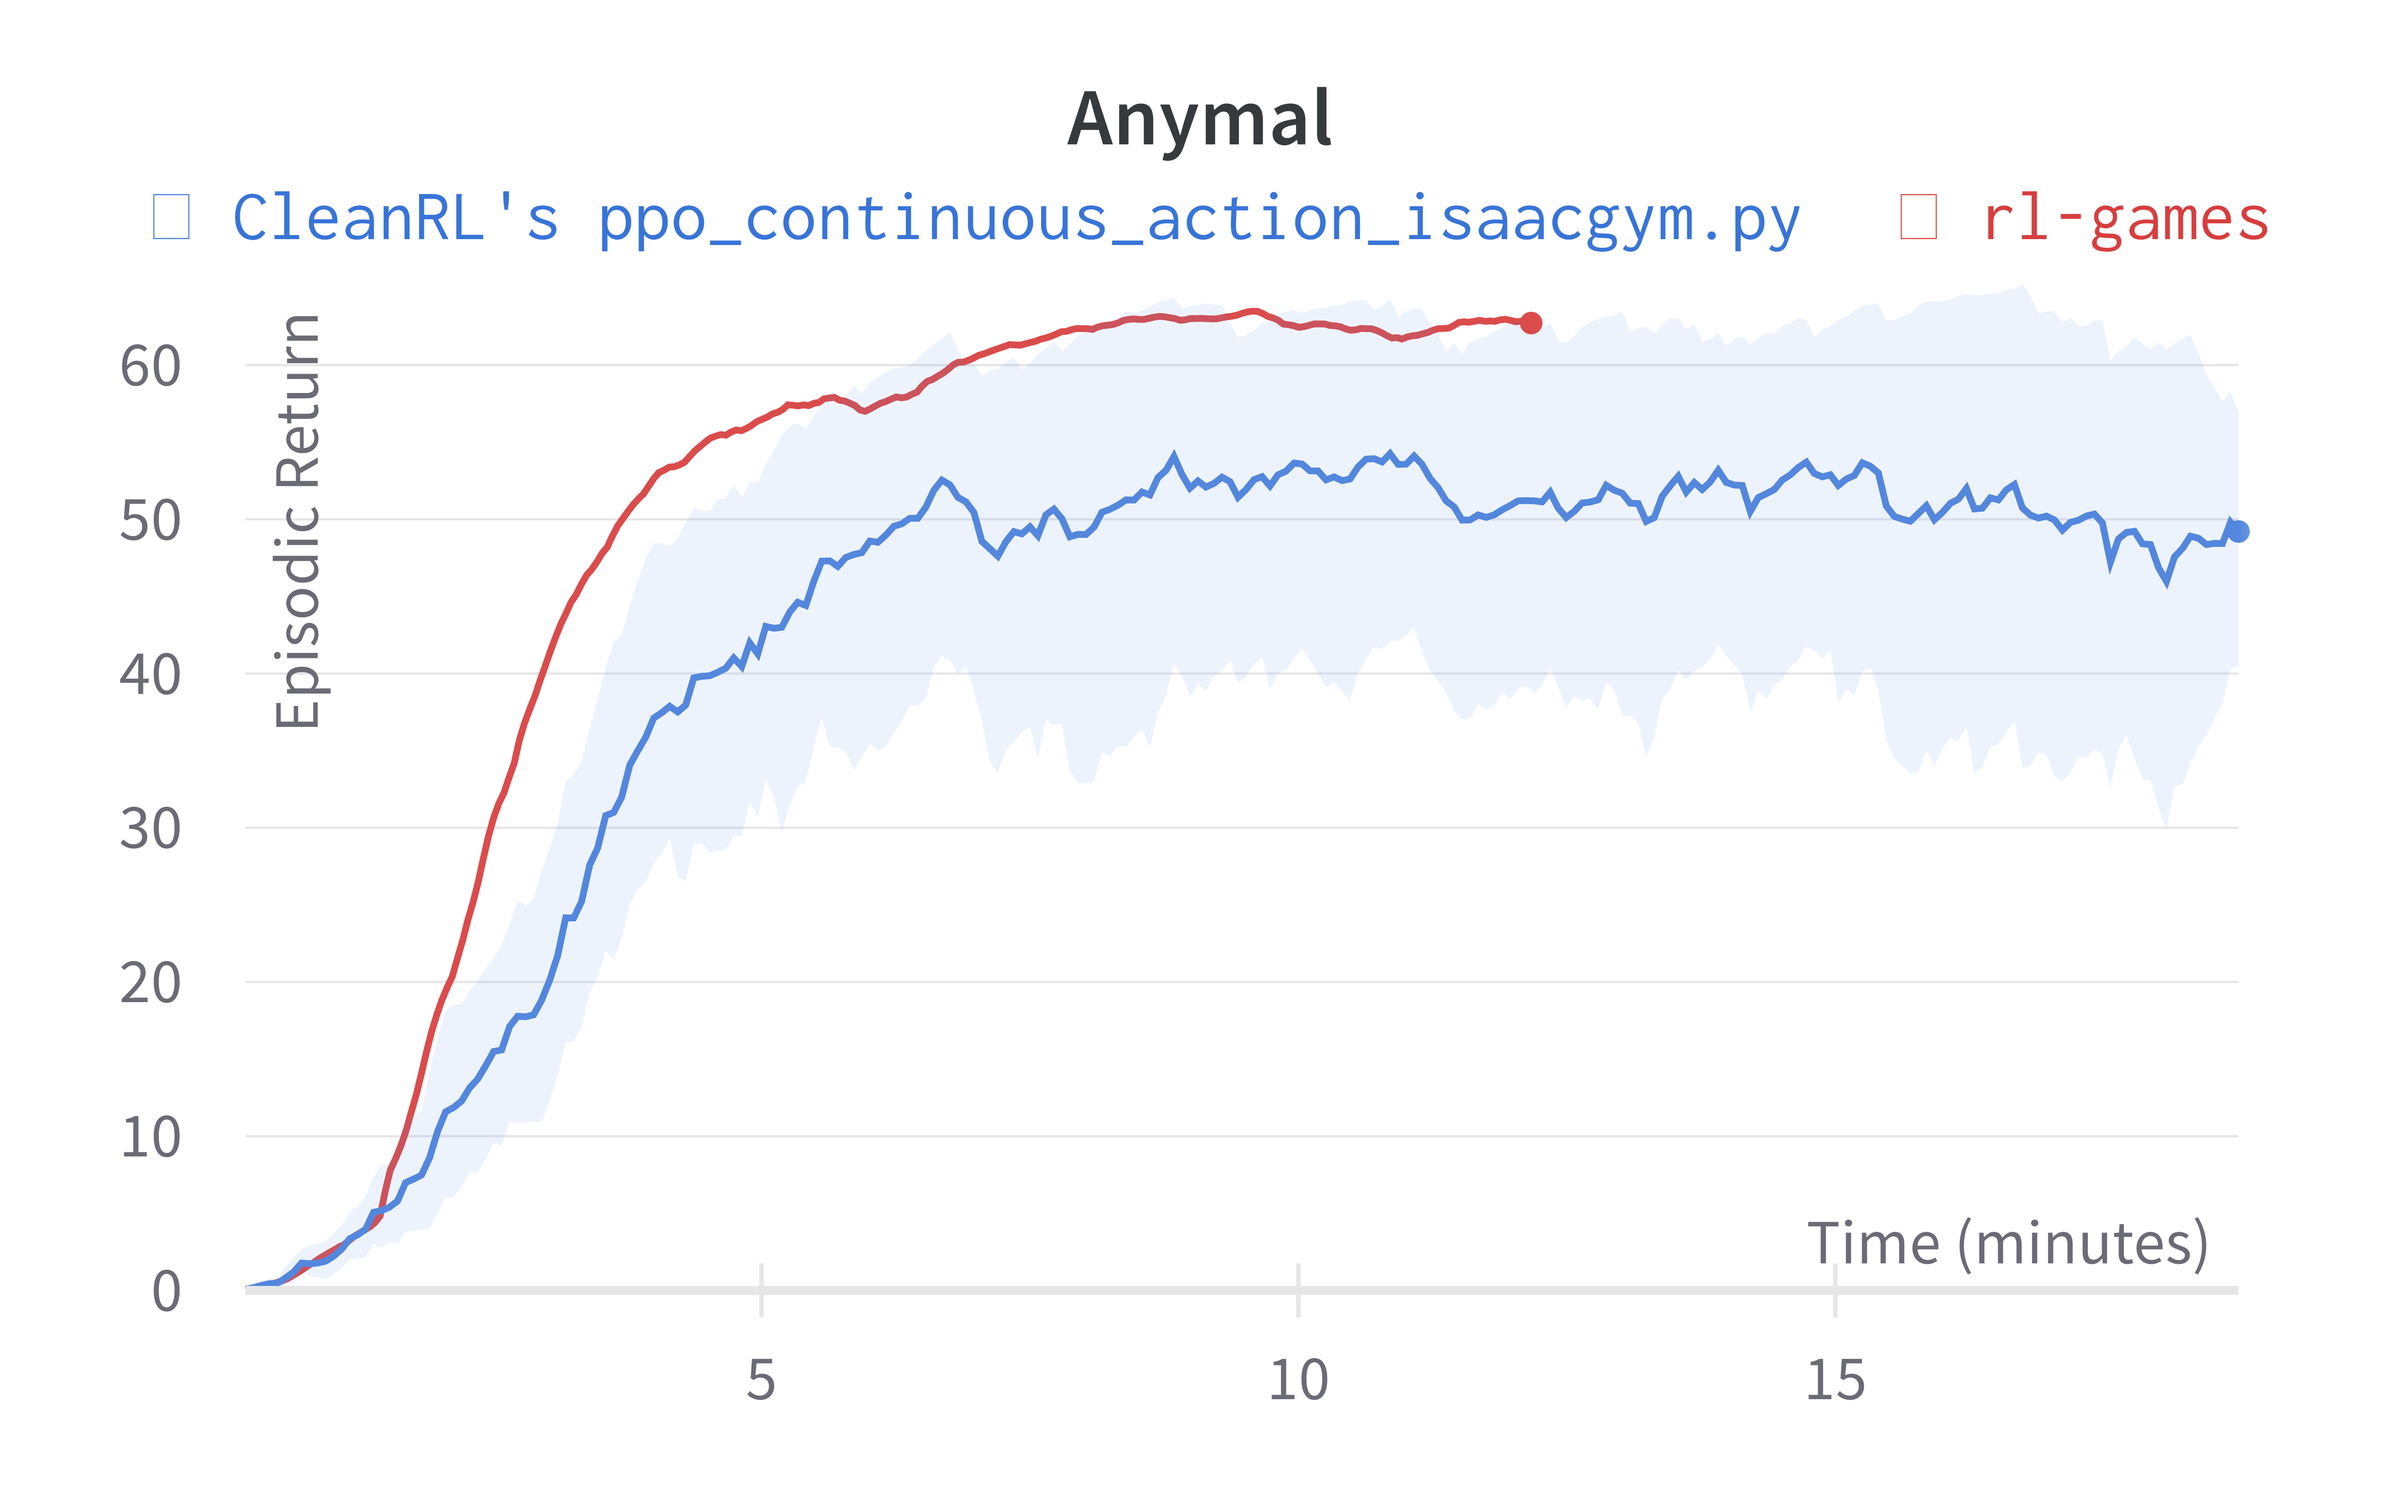
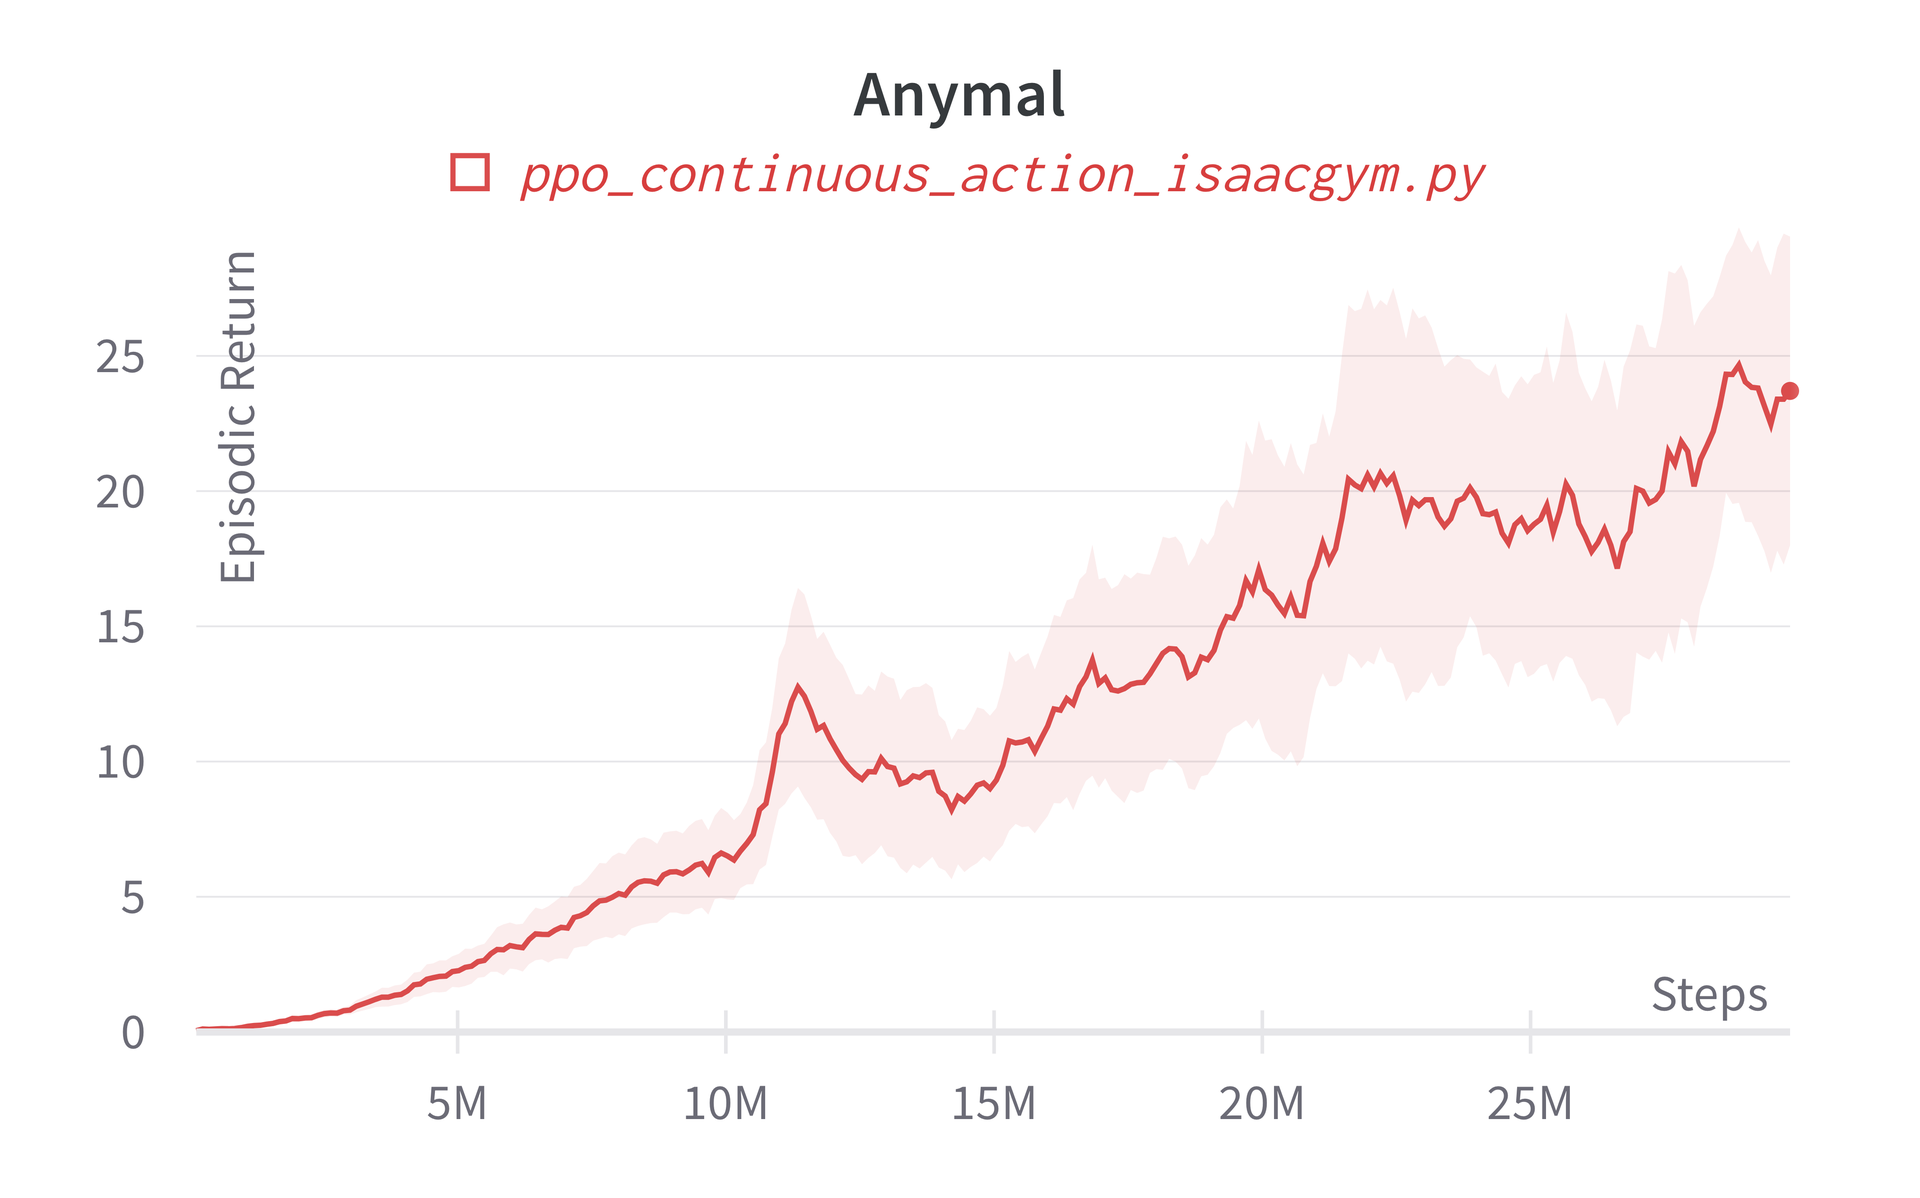
Update docs

diff --git a/docs/rl-algorithms/ppo-isaacgymenvs.md b/docs/rl-algorithms/ppo-isaacgymenvs.md
@@ -44,6 +44,8 @@ The [ppo_continuous_action_isaacgym.py](https://github.com/vwxyzjn/cleanrl/blob/
     * Trifinger
     * Ingenuity Quadcopter
 
+    🔥 we need contributors to work on supporting and tuning our PPO implementation in these envs. If you are interested, please read our [contribution guide](https://github.com/vwxyzjn/cleanrl/blob/master/CONTRIBUTING.md) and reach out!
+
 ### Usage
 
 The installation of `isaacgym` requires a bit of work since it's not a standard Python package.
@@ -61,16 +63,10 @@ mv temp_isaacgym/isaacgym/python/* isaacgym
 rm -rf temp_isaacgym
 
 poetry install -E isaacgym
-python cleanrl/experimental/ppo_continuous_action_isaacgym.py --help
-python cleanrl/experimental/ppo_continuous_action_isaacgym.py --env-id Ant
+python ppo_continuous_action_isaacgym.py --help
+python ppo_continuous_action_isaacgym.py --env-id Ant
 ```
 
-## debug 
-
-```
-pip install --upgrade setuptools pip
-python cleanrl/ppo_continuous_action_isaacgym/isaacgym/examples/joint_monkey.py 
-```
 
 ???+ info
 
@@ -157,24 +153,25 @@ Below are the average episodic returns for `ppo_continuous_action_isaacgym.py`. 
 
 | Environment (training time) | `ppo_continuous_action_isaacgym.py` | [Denys88/rl_games](https://github.com/Denys88/rl_games) |
 | --------------------------- | ----------------------------------- | ------------------------------------------------------- |
-| Cartpole (40s)              | 440.70 ± 19.75                      | 417.49 (30s)                                            |
-| Ant (180s)                  | 4000.61 ± 793.18                    | 5873.05                                                 |
-| Humanoid (22m)              | 4751.03 ± 851.21                    | 6254.73                                                 |
-| Anymal (12m)                | 51.19 ± 12.72                       | 62.76                                                   |
-| BallBalance (140s)          | 176.37 ± 58.42                      | 319.76                                                  |
-| ShadowHand (100m)           | 1746.37 ± 179.02                    | 5713.74                                                 |
-| AllegroHand (110m)          | 1308.33 ± 440.81                    | 3479.85                                                 |
+| Cartpole (40s)              | 413.66 ± 120.93                     | 417.49 (30s)                                            |
+| Ant (240s)                  | 3953.30 ± 667.086                   | 5873.05                                                 |
+| Humanoid (22m)              | 2987.95 ± 257.60                    | 6254.73                                                 |
+| Anymal (12m)                | 29.34 ± 17.80                       | 62.76                                                   |
+| BallBalance (140s)          | 161.92 ± 89.20                      | 319.76                                                  |
 
 Learning curves:
 
 <div class="grid-container">
 <img src="../ppo/isaacgymenvs/Cartpole.png">
+<img src="../ppo/isaacgymenvs/Cartpole-time.png">
 <img src="../ppo/isaacgymenvs/Ant.png">
+<img src="../ppo/isaacgymenvs/Ant-time.png">
 <img src="../ppo/isaacgymenvs/Humanoid.png">
+<img src="../ppo/isaacgymenvs/Humanoid-time.png">
 <img src="../ppo/isaacgymenvs/BallBalance.png">
+<img src="../ppo/isaacgymenvs/BallBalance-time.png">
 <img src="../ppo/isaacgymenvs/Anymal.png">
-<img src="../ppo/isaacgymenvs/AllegroHand.png">
-<img src="../ppo/isaacgymenvs/ShadowHand.png">
+<img src="../ppo/isaacgymenvs/Anymal-time.png">
 </div>
 
 ???+ info
@@ -186,7 +183,27 @@ Learning curves:
 
     While it should be possible to obtain higher scores with more tuning, the purpose of `ppo_continuous_action_isaacgym.py` is to hit a balance between simplicity and performance. I think `ppo_continuous_action_isaacgym.py` has relatively good performance with a concise codebase, which should be easy to modify and extend for practitioners.
 
-<!-- Tracked experiments and game play videos:
+
+Tracked experiments and game play videos:
 
 
-Not available yet. -->
+<iframe src="https://wandb.ai/openrlbenchmark/openrlbenchmark/reports/Isaac-Gym-CleanRL-s-PPO--VmlldzoyMzQzNzMz" style="width:100%; height:500px" title="Isaac-Gym-CleanRL-s-PPO"></iframe>
+
+
+Old Learning curves w/ Isaac Gym Preview 3 (no longer available in Nvidia's website for download):
+
+<div class="grid-container">
+<img src="../ppo/isaacgymenvs/old/Cartpole.png">
+<img src="../ppo/isaacgymenvs/old/Ant.png">
+<img src="../ppo/isaacgymenvs/old/Humanoid.png">
+<img src="../ppo/isaacgymenvs/old/BallBalance.png">
+<img src="../ppo/isaacgymenvs/old/Anymal.png">
+<img src="../ppo/isaacgymenvs/old/AllegroHand.png">
+<img src="../ppo/isaacgymenvs/old/ShadowHand.png">
+</div>
+
+???+ info
+
+    Note the `AllegroHand` and `ShadowHand` experiments used the following command `ppo_continuous_action_isaacgym.py --track --capture-video --num-envs 8192 --num-steps 8 --update-epochs 5 --reward-scaler 0.01 --total-timesteps 600000000 --record-video-step-frequency 3660`.
+
+
